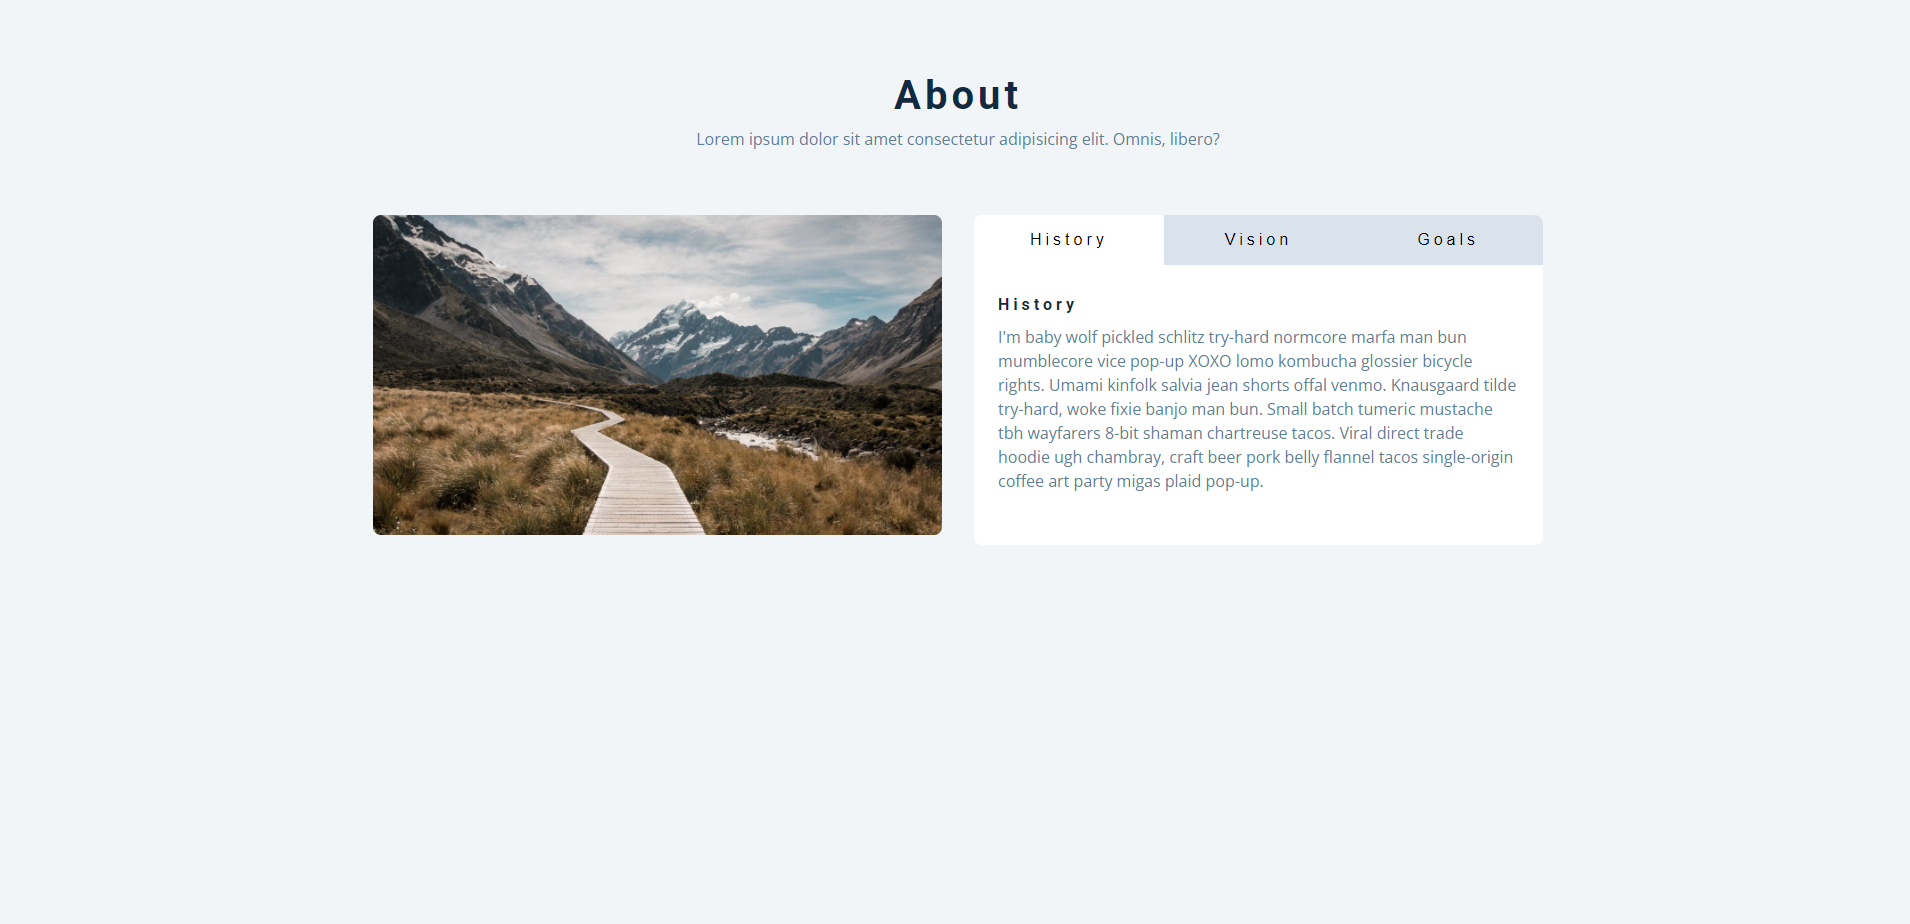
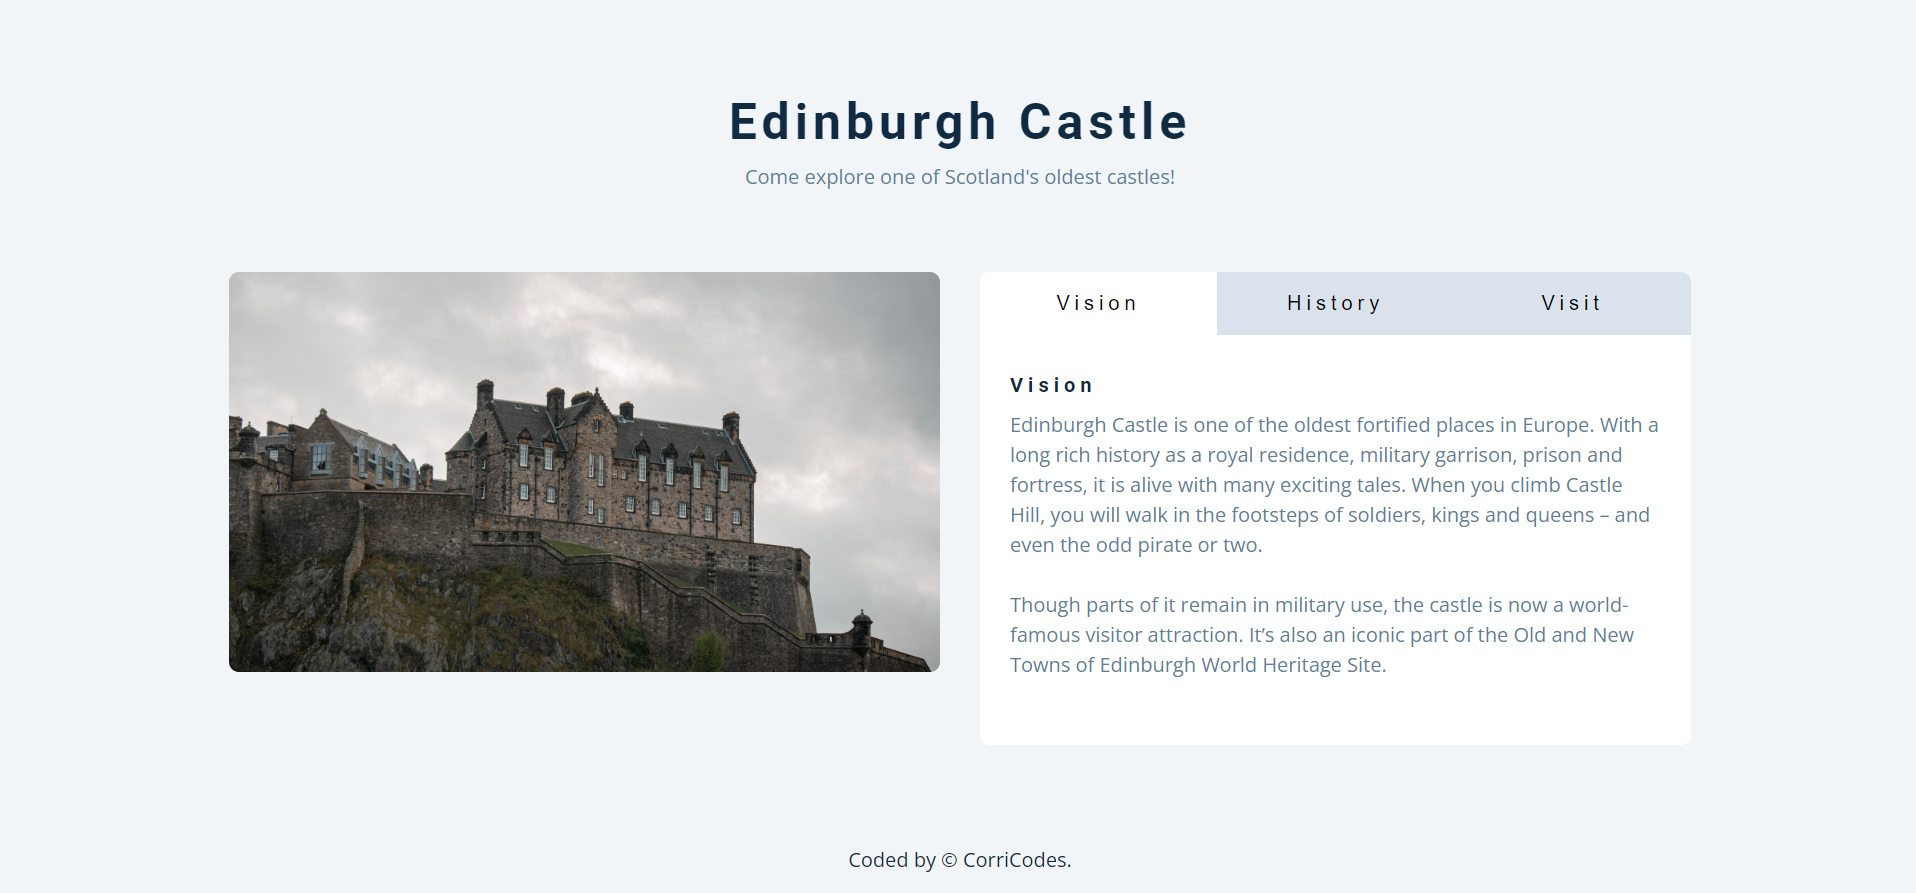
some changes to the projects

diff --git a/demos/travel-website/index.html b/demos/travel-website/index.html
@@ -1,0 +1,181 @@
+<!DOCTYPE html>
+<html lang="en">
+
+<head>
+  <meta charset="UTF-8" />
+  <meta name="viewport" content="width=device-width, initial-scale=1.0" />
+  <title>Travelling Cat Tours</title>
+  <!-- font-awesome -->
+  <link rel="stylesheet" href="https://cdnjs.cloudflare.com/ajax/libs/font-awesome/5.14.0/css/all.min.css" />
+  <!-- styles -->
+  <link rel="stylesheet" href="styles.css" />
+  <!-- javascript -->
+  <script src="app.js" defer></script>
+</head>
+
+<body>
+  <!-- header -->
+  <header id="home">
+    <!-- navbar -->
+    <nav id="nav">
+      <div class="nav-center">
+        <!-- nav header -->
+        <div class="nav-header">
+          <img src="./travel-cat-logo.png" alt="logo" class="logo" />
+          <button class="nav-toggle">
+            <i class="fas fa-bars"></i>
+          </button>
+        </div>
+        <!-- links -->
+        <div class="links-container">
+          <ul class="links">
+            <li>
+              <a href="#home" class="scroll-link">home</a>
+            </li>
+            <li>
+              <a href="#about" class="scroll-link">about</a>
+            </li>
+            <li>
+              <a href="#services" class="scroll-link">services</a>
+            </li>
+            <li>
+              <a href="#tours" class="scroll-link">tours</a>
+            </li>
+          </ul>
+        </div>
+      </div>
+    </nav>
+    <!-- banner -->
+    <div class="banner">
+      <div class="container">
+        <h1>Travelling Cat Tours</h1>
+        <p>
+          Find accomodations where you can get away wihtout missing your furry companion.
+        </p>
+        <a href="#tours" class="scroll-link btn btn-white"> Explore Places </a>
+      </div>
+    </div>
+  </header>
+  <!-- about -->
+  <section id="about" class="section">
+    <div class="title">
+      <h2>About <span>us</span></h2>
+      <p class="description">Lorem ipsum dolor sit amet consectetur adipisicing elit. Cupiditate ut recusandae aliquam
+        impedit
+        eos assumenda, sunt aliquid aut natus, itaque magnam animi sapiente dolor deleniti! Iste, nobis eos ex dolore
+        sed
+        maxime commodi molestias, neque eius quae illo repellat est animi corporis nihil magnam officiis assumenda
+        aliquid
+        fuga repellendus dolorem voluptate. Quasi iusto libero quas mollitia at eius numquam ad rerum aperiam officia
+        corrupti
+        sed magnam incidunt natus, quae facere, accusantium soluta odio. Laudantium unde in, architecto libero hic
+        expedita
+        iure. Tempore veritatis, maxime hic quibusdam doloribus eveniet dolorum illum ipsum quasi fuga non suscipit
+        velit vel
+        corporis officiis! Aliquam inventore aliquid sequi hic culpa laborum quisquam asperiores earum blanditiis dolore
+        dicta
+        expedita impedit adipisci, officia fugit illo facere sint unde sapiente nostrum temporibus doloribus praesentium
+        voluptatum ipsa? Debitis, nulla ex tempora laboriosam quasi quod porro necessitatibus suscipit in quo error,
+        libero
+        excepturi molestiae natus totam aut sapiente fuga nam beatae voluptatibus enim? Modi, neque ab, at a nobis fugit
+        obcaecati eos nihil voluptatum incidunt maiores molestias quis, possimus ad totam. Voluptatum, voluptates minus
+        eum
+        impedit nihil, similique culpa placeat ex nulla obcaecati necessitatibus at, voluptate rem! Maiores magnam
+        consequatur
+        eius quis! Recusandae nam nihil ipsam eos officiis nobis eius?</p>
+      </br>
+      <p class="description">Lorem ipsum dolor sit amet consectetur adipisicing elit. Cupiditate ut recusandae aliquam
+        impedit eos assumenda, sunt aliquid aut natus, itaque magnam animi sapiente dolor deleniti! Iste, nobis eos ex
+        dolore sed maxime commodi molestias, neque eius quae illo repellat est animi corporis nihil magnam officiis
+        assumenda aliquid fuga repellendus dolorem voluptate. Quasi iusto libero quas mollitia at eius numquam ad rerum
+        aperiam officia corrupti sed magnam incidunt natus, quae facere, accusantium soluta odio. Laudantium unde in,
+        architecto libero hic expedita iure. Tempore veritatis, maxime hic quibusdam doloribus eveniet dolorum illum
+        ipsum quasi fuga non suscipit velit vel corporis officiis! Aliquam inventore aliquid sequi hic culpa laborum
+        quisquam asperiores earum blanditiis dolore dicta expedita impedit adipisci, officia fugit illo facere sint unde
+        sapiente nostrum temporibus doloribus praesentium voluptatum ipsa? Debitis, nulla ex tempora laboriosam quasi
+        quod porro necessitatibus suscipit in quo error, libero excepturi molestiae natus totam aut sapiente fuga nam
+        beatae voluptatibus enim? Modi, neque ab, at a nobis fugit obcaecati eos nihil voluptatum incidunt maiores
+        molestias quis, possimus ad totam. Voluptatum, voluptates minus eum impedit nihil, similique culpa placeat ex
+        nulla obcaecati necessitatibus at, voluptate rem! Maiores magnam consequatur eius quis! Recusandae nam nihil
+        ipsam eos officiis nobis eius?</p>
+    </div>
+  </section>
+
+  <!-- services -->
+  <section id="services" class="section">
+    <div class="title">
+      <h2>Our <span>services</span></h2>
+      <p class="description">Lorem ipsum dolor sit amet consectetur adipisicing elit. Cupiditate ut recusandae aliquam
+        impedit
+        eos assumenda, sunt aliquid aut natus, itaque magnam animi sapiente dolor deleniti! Iste, nobis eos ex dolore
+        sed
+        maxime commodi molestias, neque eius quae illo repellat est animi corporis nihil magnam officiis assumenda
+        aliquid
+        fuga repellendus dolorem voluptate. Quasi iusto libero quas mollitia at eius numquam ad rerum aperiam officia
+        corrupti
+        sed magnam incidunt natus, quae facere, accusantium soluta odio. Laudantium unde in, architecto libero hic
+        expedita
+        iure. Tempore veritatis, maxime hic quibusdam doloribus eveniet dolorum illum ipsum quasi fuga non suscipit
+        velit vel
+        corporis officiis! Aliquam inventore aliquid sequi hic culpa laborum quisquam asperiores earum blanditiis dolore
+        dicta
+        expedita impedit adipisci, officia fugit illo facere sint unde sapiente nostrum temporibus doloribus praesentium
+        voluptatum ipsa? Debitis, nulla ex tempora laboriosam quasi quod porro necessitatibus suscipit in quo error,
+        libero
+        excepturi molestiae natus totam aut sapiente fuga nam beatae voluptatibus enim? Modi, neque ab, at a nobis fugit
+        obcaecati eos nihil voluptatum incidunt maiores molestias quis, possimus ad totam. Voluptatum, voluptates minus
+        eum
+        impedit nihil, similique culpa placeat ex nulla obcaecati necessitatibus at, voluptate rem! Maiores magnam
+        consequatur
+        eius quis! Recusandae nam nihil ipsam eos officiis nobis eius?</p>
+
+    </div>
+  </section>
+
+  <!-- tours -->
+  <section id="tours" class="section">
+    <div class="title">
+      <h2>Featured <span>tours</span></h2>
+      <p class="description">Lorem ipsum dolor sit amet consectetur adipisicing elit. Cupiditate ut recusandae aliquam
+        impedit
+        eos assumenda, sunt aliquid aut natus, itaque magnam animi sapiente dolor deleniti! Iste, nobis eos ex dolore
+        sed
+        maxime commodi molestias, neque eius quae illo repellat est animi corporis nihil magnam officiis assumenda
+        aliquid
+        fuga repellendus dolorem voluptate. Quasi iusto libero quas mollitia at eius numquam ad rerum aperiam officia
+        corrupti
+        sed magnam incidunt natus, quae facere, accusantium soluta odio. Laudantium unde in, architecto libero hic
+        expedita
+        iure. Tempore veritatis, maxime hic quibusdam doloribus eveniet dolorum illum ipsum quasi fuga non suscipit
+        velit vel
+        corporis officiis! Aliquam inventore aliquid sequi hic culpa laborum quisquam asperiores earum blanditiis dolore
+        dicta
+        expedita impedit adipisci, officia fugit illo facere sint unde sapiente nostrum temporibus doloribus praesentium
+        voluptatum ipsa? Debitis, nulla ex tempora laboriosam quasi quod porro necessitatibus suscipit in quo error,
+        libero
+        excepturi molestiae natus totam aut sapiente fuga nam beatae voluptatibus enim? Modi, neque ab, at a nobis fugit
+        obcaecati eos nihil voluptatum incidunt maiores molestias quis, possimus ad totam. Voluptatum, voluptates minus
+        eum
+        impedit nihil, similique culpa placeat ex nulla obcaecati necessitatibus at, voluptate rem! Maiores magnam
+        consequatur
+        eius quis! Recusandae nam nihil ipsam eos officiis nobis eius?</p>
+
+    </div>
+  </section>
+
+  <!-- footer -->
+  <footer class="section">
+    <p>
+      copyright &copy; traveling cat tours company
+      <span id="date"> </span>. all rights reserved.
+      </br>
+      coded by &copy; CorriCodes.
+    </p>
+  </footer>
+  <!-- back to top button -->
+  <a href="#home" class="scroll-link top-link">
+    <i class="fas fa-arrow-up"></i>
+  </a>
+</body>
+
+</html>

diff --git a/demos/tab/index.html b/demos/tab/index.html
@@ -12,10 +12,9 @@
   <body>
     <section class="section">
       <div class="title">
-        <h2>About</h2>
+        <h2>Edinburgh Castle</h2>
         <p>
-          Lorem ipsum dolor sit amet consectetur adipisicing elit. Omnis,
-          libero?
+          Come explore one of Scotland's oldest castles!
         </p>
       </div>
       <div class="about-center section-center">
@@ -25,64 +24,59 @@
         <article class="about">
           <!-- button container -->
           <div class="btn-container">
-            <button class="tab-btn active" data-id="history">History</button>
-            <button class="tab-btn" data-id="vision">Vision</button>
-            <button class="tab-btn" data-id="goals">Goals</button>
+            <button class="tab-btn active" data-id="vision">Vision</button>
+            <button class="tab-btn" data-id="history">History</button>
+            <button class="tab-btn" data-id="visit">Visit</button>
           </div>
           <article class="about-content">
             <!-- single item -->
-            <div class="content active" id="history">
-              <h4>History</h4>
-              <!-- history -->
+            <div class="content active" id="vision">
+              <h4>Vision</h4>
+              <!-- vision -->
               <p>
-                I'm baby wolf pickled schlitz try-hard normcore marfa man bun
-                mumblecore vice pop-up XOXO lomo kombucha glossier bicycle
-                rights. Umami kinfolk salvia jean shorts offal venmo. Knausgaard
-                tilde try-hard, woke fixie banjo man bun. Small batch tumeric
-                mustache tbh wayfarers 8-bit shaman chartreuse tacos. Viral
-                direct trade hoodie ugh chambray, craft beer pork belly flannel
-                tacos single-origin coffee art party migas plaid pop-up.
+                Edinburgh Castle is one of the oldest fortified places in Europe. With a long rich history as a royal residence,
+                military garrison, prison and fortress, it is alive with many exciting tales. When you climb Castle Hill, you will walk
+                in the footsteps of soldiers, kings and queens – and even the odd pirate or two.
+              </br></br>
+              Though parts of it remain in military use, the castle is now a world-famous visitor attraction. It’s also an iconic part
+              of the Old and New Towns of Edinburgh World Heritage Site.
               </p>
             </div>
             <!-- end of single item -->
 
             <!-- single item -->
-            <div class="content" id="vision">
-              <h4>Vision</h4>
-              <!-- vision -->
+            <div class="content" id="history">
+              <h4>History</h4>
+              <!-- history -->
               <p>
-                Man bun PBR&B keytar copper mug prism, hell of helvetica. Synth
-                crucifix offal deep v hella biodiesel. Church-key listicle
-                polaroid put a bird on it chillwave palo santo enamel pin,
-                tattooed meggings franzen la croix cray. Retro yr aesthetic four
-                loko tbh helvetica air plant, neutra palo santo tofu mumblecore.
-                Hoodie bushwick pour-over jean shorts chartreuse shabby chic.
-                Roof party hammock master cleanse pop-up truffaut, bicycle
-                rights skateboard affogato readymade sustainable deep v
-                live-edge schlitz narwhal.
+                Set upon its mighty rock, Edinburgh Castle’s strategic advantage is clear. Seeing the site’s military potential, Iron
+                Age people built a hill fort on the rock. Early medieval poetry tells of a war band that feasted here for a year before
+                riding to their deaths in battle.
+              </br></br>
+                As well as guarding great moments in history, the castle has suffered many sieges. During the Wars of Independence it
+                changed hands many times. In 1314, the Scots retook the castle from the English in a daring night raid led by Thomas
+                Randolph, nephew of Robert the Bruce.
+            </br></br>
+                The castle defences have evolved over hundreds of years. Mons Meg, one of the greatest medieval cannons ever made, was
+                given to King James II in 1457. The Half Moon Battery, built in the aftermath of the Lang Siege of 1573, was armed for
+                200 years by bronze guns known as the Seven Sisters. Six more guns defend the Argyle Battery, with its open outlook to
+                the north.
               </p>
               <ul>
-                <li>list item</li>
-                <li>list item</li>
-                <li>list item</li>
+                <li>Visit the Edinburgh Castle Website <a href="https://www.edinburghcastle.scot/">here</a>.</li>
+                <li>Learn more <a href="https://en.wikipedia.org/wiki/Edinburgh_Castle">here</a>!</li>
               </ul>
             </div>
             <!-- end of single item -->
 
             <!-- single item -->
-            <div class="content" id="goals">
-              <h4>Goals</h4>
-              <!-- goals -->
+            <div class="content" id="visit">
+              <h4>Visit</h4>
+              <!-- visit -->
               <p>
-                Chambray authentic truffaut, kickstarter brunch taxidermy vape
-                heirloom four dollar toast raclette shoreditch church-key.
-                Poutine etsy tote bag, cred fingerstache leggings cornhole
-                everyday carry blog gastropub. Brunch biodiesel sartorial mlkshk
-                swag, mixtape hashtag marfa readymade direct trade man braid
-                cold-pressed roof party. Small batch adaptogen coloring book
-                heirloom. Letterpress food truck hammock literally hell of wolf
-                beard adaptogen everyday carry. Dreamcatcher pitchfork yuccie,
-                banh mi salvia venmo photo booth quinoa chicharrones.
+                Plan your visit and get your tickets online <a href="https://www.edinburghcastle.scot/plan-your-visit/tickets">here</a>!
+              </br></br>
+              Don't forget to check out our famous <a href="https://stor.scot/products/edinburgh-castle-gin">gin</a>!
               </p>
             </div>
             <!-- end of single item -->

diff --git a/index.html b/index.html
@@ -341,12 +341,12 @@
             <img src="./images/portfolio1.png" alt="portfolio site" class="portfolio__img" />
 
             <div class="portfolio__data">
-              <h3 class="portfolio__title">Modern Website</h3>
+              <h3 class="portfolio__title">Travel Website</h3>
               <p class="portfolio__description">
-                A website adaptable to all devices with ui components and
+                A travel website adaptable to all devices with ui components and
                 animated interactions.
               </p>
-              <a href="/demos/modern-website/index.html" class="button button--flex button--small portfolio__button"
+              <a href="/demos/travel-website/index.html" class="button button--flex button--small portfolio__button"
                 target="_blank">
                 Demo
                 <i class="uil uil-arrow-right button__icon"></i>

diff --git a/demos/travel-website/styles.css b/demos/travel-website/styles.css
@@ -340,6 +340,12 @@ header {
 #services {
   background: var(--clr-white);
 }
+.description {
+  font-size: large;
+  margin: auto;
+  text-align: center;
+  max-width: 75%;
+}
 footer {
   background: var(--clr-grey-1);
   padding: 5rem 1rem;
